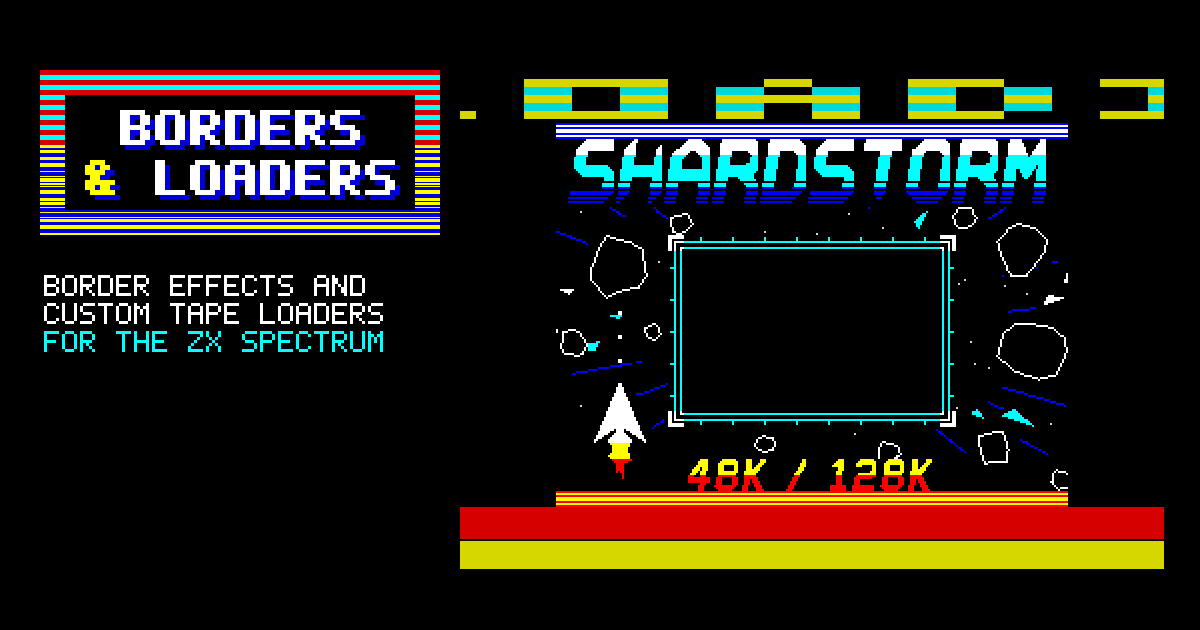
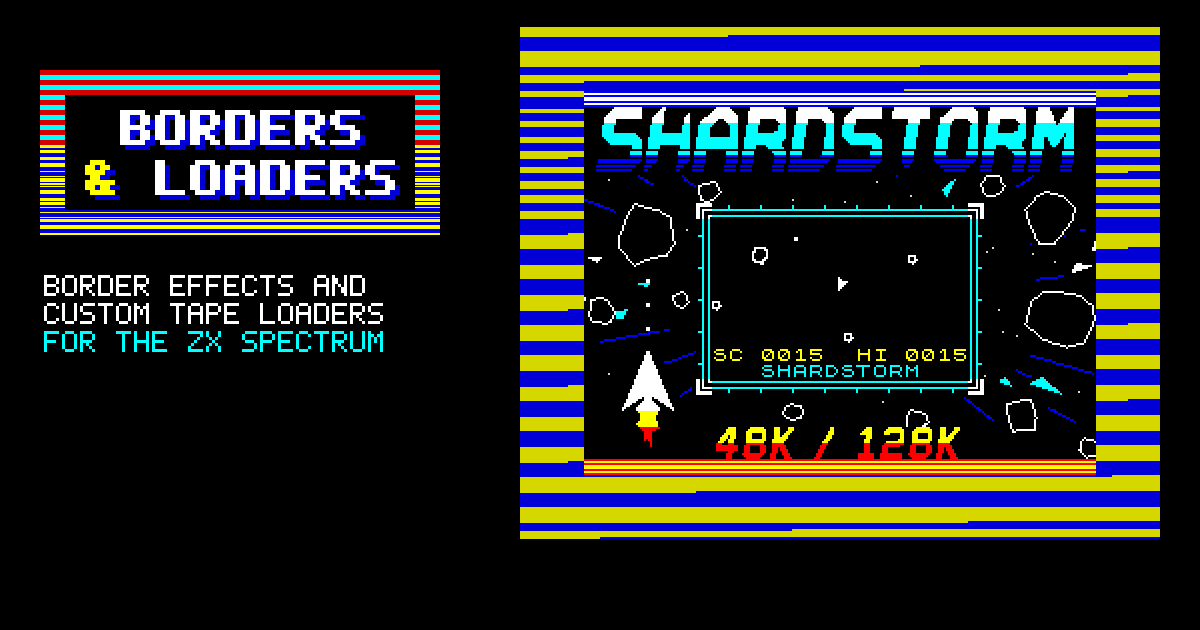
Site update

Changed region(s): [[0.37, 0.0302, 0.9867, 0.9048], [0.37, 0.181, 0.4008, 0.2111]]

diff --git a/demos/shardstorm-minigame/index.html b/demos/shardstorm-minigame/index.html
@@ -1,0 +1,120 @@
+<!doctype html>
+<html lang="en-GB">
+<head>
+<meta charset="utf-8">
+<meta name="viewport" content="width=device-width,initial-scale=1">
+<title>Play Shardstorm while it loads - Borders &amp; Loaders</title>
+<meta name="description" content="An ordinary-looking tape, loading stripes and all - but once the loading screen is in, a cut-down Shardstorm plays in the box in the middle while the rest of the game loads. Your best score carries over into the real game. 48K and 128K.">
+<meta property="og:title" content="Play Shardstorm while it loads - Borders &amp; Loaders">
+<meta property="og:description" content="An ordinary-looking tape, loading stripes and all - but once the loading screen is in, a cut-down Shardstorm plays in the box in the middle while the rest of the game loads. Your best score carries over into the real game. 48K and 128K.">
+<meta property="og:type" content="website">
+<meta property="og:url" content="https://mikeynma.github.io/borders-and-loaders/demos/shardstorm-minigame/">
+<meta property="og:image" content="https://mikeynma.github.io/borders-and-loaders/shots/shardstorm-minigame/playing.png">
+<meta property="og:image:alt" content="The Shardstorm loading screen with blue and yellow loading stripes in the border; in its central box a small ship, several outline shards, and SC 0015 HI 0015">
+<link rel="canonical" href="https://mikeynma.github.io/borders-and-loaders/demos/shardstorm-minigame/">
+<meta name="twitter:card" content="summary_large_image">
+<meta name="twitter:image" content="https://mikeynma.github.io/borders-and-loaders/shots/shardstorm-minigame/playing.png">
+<meta name="theme-color" content="#000000">
+<link rel="icon" href="../../favicon-32.png" type="image/png">
+<link rel="apple-touch-icon" href="../../apple-touch-icon.png">
+<link rel="preload" href="../../fonts/geist-400.woff2" as="font" type="font/woff2" crossorigin>
+<link rel="stylesheet" href="../../site.css">
+</head>
+<body>
+<div class="tape" aria-hidden="true"></div>
+<header class="top">
+  <div class="wrap">
+    <a class="brand" href="../../" aria-label="Borders and Loaders, the front page"><img src="../../icon.png" width="32" height="32" alt=""><span>Borders &amp; Loaders</span></a>
+    <nav aria-label="Sections"><a href="#how">How it works</a><a href="#screens">Screens</a><a href="#download">Download</a><a href="../../#demos">All demos</a></nav>
+  </div>
+</header>
+
+<main>
+<section class="hero wrap">
+  <div class="hero-text">
+    <p class="badges"><span class="badge m48K">48K</span><span class="badge m128K">128K</span><span class="date">12 November 2026</span></p>
+    <h1 class="title">Play Shardstorm while it loads</h1>
+    <p class="lead">An ordinary-looking tape, loading stripes and all - but once the loading screen is in, a cut-down Shardstorm plays in the box in the middle while the rest of the game loads. Your best score carries over into the real game. 48K and 128K.</p>
+    <p>Tape games of the 1980s sometimes gave you something to play while they loaded; this is Shardstorm's. The tape looks and sounds like any other - the ROM's blue and yellow stripes, no border tricks - but the black box in the middle of the loading screen is a playfield: O and P turn, Q thrusts, SPACE fires.</p>
+<p>Shards drift and wrap round the box; big ones split in two when shot, small ones go, and a new wave comes when the box is clear. A crash costs you your score, but your best is kept - and when the load is done and you press fire, Shardstorm starts with it as its high score.</p>
+    <div class="actions"><a class="btn" href="../../files/shardstorm-128k-game.tzx" download>Download the 128K .tzx <small>36 KB</small></a><a class="btn btn-ghost" href="../../files/shardstorm-128k-game.tap" download>Download the 128K .tap <small>36 KB</small></a><a class="btn btn-ghost" href="../../files/shardstorm-48k-game.tzx" download>Download the 48K .tzx <small>32 KB</small></a><a class="btn btn-ghost" href="../../files/shardstorm-48k-game.tap" download>Download the 48K .tap <small>32 KB</small></a></div>
+  </div>
+  <figure class="hero-shot">
+    <a class="shot" href="../../shots/shardstorm-minigame/playing.png" data-caption="Ten seconds into the game's load: the ship among the shards in the loading screen's box, the score below, the ROM's loading stripes all round."><img src="../../shots/shardstorm-minigame/playing.png" width="640" height="512" alt="The Shardstorm loading screen with blue and yellow loading stripes in the border; in its central box a small ship, several outline shards, and SC 0015 HI 0015"></a>
+    <figcaption>Ten seconds into the game's load: the ship among the shards in the loading screen's box, the score below, the ROM's loading stripes all round.</figcaption>
+  </figure>
+</section>
+
+<section id="how" class="wrap">
+  <p class="eyebrow">How it works</p>
+  <div class="tech">
+    <div class="tech-text">
+      <h2>A game between the edges</h2>
+      <p>Our loader times the tape's pulses itself. After every bit of every byte - seven times a byte - it hands a slice of time to the game: one short piece of game code, always exactly the same length, so the loader knows how long it was away and still reads the next bit right. A piece moves a shard, or reads the keys, or draws part of the ship. About 30 pieces make a frame, and the game runs at 25 frames a second of tape, steady through the whole load.</p>
+<p>Every piece of game code is measured in the build, in thousands of random game states - shards alive or not, wrapping, colliding, keys held or not - and has to take one length in all of them, or the build stops.</p>
+      <h2>Where it lives</h2>
+      <p>The game keeps running after the load until you press fire, so it lives where no part of Shardstorm ever loads: the same gaps on both machines. The part that only runs once at the start sits where the last part of the game later loads over it. Before Shardstorm starts, the loader clears its own memory and writes your best score where Shardstorm keeps its high score.</p>
+      <h2>An ordinary tape</h2>
+      <p>The game's parts are standard blocks at the ROM's own speed, so the plain <code>.tap</code> works in any emulator that plays tapes in real time. The break key is CAPS SHIFT and SPACE, the Spectrum's own BREAK, since SPACE fires.</p>
+      <h2>How it was checked</h2>
+      <p>Checked by <code>shardgame.js</code>, loading the tape through our emulator's tape deck with a scripted player at the keys: every bit read right; the ship turned all 16 ways, moved and fired; shards split and went, and the score always matched; nothing ever drawn outside the box; the game's picture matching its own records, byte for byte, hundreds of times over; LOADED and PRESS FIRE; then Shardstorm's menu with the right high score - on both machines.</p>
+    </div>
+    <aside class="card numbers">
+      <h3>The numbers</h3>
+      <dl><dt>Machines</dt><dd>48K; 128K, +2</dd><dt>Tape</dt><dd>a plain .tap at ROM speed: about 2 minutes of play, 3 min 32 s to the end (48K), 3 min 46 s (128K)</dd><dt>Game frames</dt><dd>25 a second of tape</dd><dt>CPU for the game</dt><dd>about a fifth, while loading</dd><dt>Bits read</dt><dd>every one, with the same margins as an ordinary load</dd></dl>
+    </aside>
+  </div>
+</section>
+
+<section id="screens" class="wrap">
+  <p class="eyebrow">Screens</p>
+  <h2>As our emulator draws it</h2>
+  <p class="sub">Full frames, border and all. Click a picture to see it bigger.</p>
+  <div class="gallery">
+    <a class="shot" href="../../shots/shardstorm-minigame/playing.png" data-caption="Ten seconds into the game's load: the ship among the shards in the loading screen's box, the score below, the ROM's loading stripes all round."><img src="../../shots/shardstorm-minigame/playing.png" width="640" height="512" loading="lazy" alt="The Shardstorm loading screen with blue and yellow loading stripes in the border; in its central box a small ship, several outline shards, and SC 0015 HI 0015"></a>
+    <a class="shot" href="../../shots/shardstorm-minigame/part1.png" data-caption="Part 1 loading, 60% in: a shard split, a score going up."><img src="../../shots/shardstorm-minigame/part1.png" width="640" height="512" loading="lazy" alt="The Shardstorm loading screen with loading stripes; in the box a ship, small shards and SC 0025 HI 0250"></a>
+    <a class="shot" href="../../shots/shardstorm-minigame/48k-last.png" data-caption="The 48K tape, the last part loading, the controls running along the text line."><img src="../../shots/shardstorm-minigame/48k-last.png" width="640" height="512" loading="lazy" alt="The Shardstorm loading screen with loading stripes; in the box a ship and SC 0420 HI 0420, SPACE FIRE"></a>
+    <a class="shot" href="../../shots/shardstorm-minigame/loaded.png" data-caption="Loaded: the stripes stop, the box says PRESS FIRE, and the game goes on until you do."><img src="../../shots/shardstorm-minigame/loaded.png" width="640" height="512" loading="lazy" alt="The Shardstorm loading screen with a black border; in the box a ship, SC 0510 HI 0510 and PRESS FIRE"></a>
+    <a class="shot" href="../../shots/shardstorm-minigame/menu.png" data-caption="Fire starts Shardstorm, with the mini-game's best as its high score: 0635."><img src="../../shots/shardstorm-minigame/menu.png" width="640" height="512" loading="lazy" alt="The Shardstorm menu showing HIGH SCORE 0635"></a>
+  </div>
+</section>
+
+<section id="download" class="wrap">
+  <div class="card download">
+    <div>
+      <p class="eyebrow">Download</p>
+      <h2>Load it yourself</h2>
+      <p>For the 48K and the 128K. Each machine has its own tape; its .tzx and .tap hold the same blocks.</p>
+      <p class="meta"><code>shardstorm-128k-game.tzx</code>, 36 KB, built 12 November 2026<br><code>shardstorm-128k-game.tap</code>, 36 KB, built 12 November 2026<br><code>shardstorm-48k-game.tzx</code>, 32 KB, built 12 November 2026<br><code>shardstorm-48k-game.tap</code>, 32 KB, built 12 November 2026</p>
+      <div class="actions"><a class="btn" href="../../files/shardstorm-128k-game.tzx" download>Download the 128K .tzx <small>36 KB</small></a><a class="btn btn-ghost" href="../../files/shardstorm-128k-game.tap" download>Download the 128K .tap <small>36 KB</small></a><a class="btn btn-ghost" href="../../files/shardstorm-48k-game.tzx" download>Download the 48K .tzx <small>32 KB</small></a><a class="btn btn-ghost" href="../../files/shardstorm-48k-game.tap" download>Download the 48K .tap <small>32 KB</small></a></div>
+    </div>
+    <ol class="steps">
+      <li><b>In an emulator</b> (ZX Spin, Retro Virtual Machine, Fuse and others): choose the machine the demo says - a 128K or +2 for the 128K ones - and open the <code>.tzx</code> or the <code>.tap</code>. They hold the same blocks; use whichever your emulator prefers. On a 128K, pick <b>Tape Loader</b>; on a 48K, type <code>LOAD ""</code>.</li>
+      <li><b>Switch off instant and fast loading.</b> The custom loaders read the tape signal themselves, edge by edge: an emulator that skips the tape skips the loader, and everything it does while it loads.</li>
+      <li><b>On a real Spectrum:</b> play the <code>.tzx</code> into the EAR socket from a TZX player. These are for the original machines' timing: the 48K, the 128K and the grey +2.</li>
+    </ol>
+  </div>
+</section>
+
+<nav class="wrap pager" aria-label="Other demos">
+  <a href="../shardstorm-pulse/">&larr; Tune, text and a VU meter while it loads</a>
+  <span></span>
+</nav>
+</main>
+
+<footer class="wrap foot">
+  <img src="../../icon.png" width="24" height="24" alt="">
+  <div>
+    <p>Borders &amp; Loaders is a set of experiments for the ZX Spectrum, written in Z80 assembly with our own assembler and emulator, and checked frame by frame before anything goes into a game. Made in the UK, by the maker of <a href="https://mikeynma.github.io/">games for the ZX Spectrum Next</a>.</p>
+    <p class="small">Shardstorm, the game on the loader demos' tapes, is our own rock shooter in progress. Everything here is our own code, fonts, tunes and pictures. Text in Geist, under the SIL Open Font License.</p>
+  </div>
+</footer>
+<dialog class="lightbox" aria-label="Screenshot">
+  <figure><img alt=""><figcaption></figcaption></figure>
+  <button class="lb-btn lb-prev" type="button" aria-label="Previous picture">&lsaquo;</button>
+  <button class="lb-btn lb-next" type="button" aria-label="Next picture">&rsaquo;</button>
+  <button class="lb-btn lb-close" type="button" autofocus aria-label="Close">&times;</button>
+</dialog>
+<script src="../../site.js"></script>
+</body>
+</html>

diff --git a/index.html b/index.html
@@ -37,12 +37,12 @@
     <p>Music, scrolling text and a VU meter in the border while a game loads; rainbow bars, checkerboards and horizons that run off the edge of the TV. All of it our own Z80, timed to the T-state against the beam.</p>
     <div class="actions">
       <a class="btn" href="#demos">See the demos</a>
-      <a class="btn btn-ghost" href="demos/shardstorm-pulse/">The newest: Tune, text and a VU meter while it loads</a>
+      <a class="btn btn-ghost" href="demos/shardstorm-minigame/">The newest: Play Shardstorm while it loads</a>
     </div>
   </div>
   <figure class="hero-shot">
-    <video src="videos/shardstorm-pulse.mp4" poster="shots/shardstorm-pulse/loading.png" width="828" height="576" muted loop playsinline controls preload="metadata" aria-label="Tune, text and a VU meter while it loads: Highlights of a whole load, recorded in an emulator, with the sound: turn it on for the tune. The ROM loads our loader, which takes over with the text, the meter and the music; the loading screen arrives; part 1 loads; then the game"></video>
-    <figcaption>Highlights of a whole load, recorded in an emulator, with the sound: turn it on for the tune. The ROM loads our loader, which takes over with the text, the meter and the music; the loading screen arrives; part 1 loads; then the game.</figcaption>
+    <a class="shot" href="shots/shardstorm-minigame/playing.png" data-caption="Ten seconds into the game's load: the ship among the shards in the loading screen's box, the score below, the ROM's loading stripes all round."><img src="shots/shardstorm-minigame/playing.png" width="640" height="512" alt="The Shardstorm loading screen with blue and yellow loading stripes in the border; in its central box a small ship, several outline shards, and SC 0015 HI 0015"></a>
+    <figcaption>Play Shardstorm while it loads. Ten seconds into the game's load: the ship among the shards in the loading screen's box, the score below, the ROM's loading stripes all round.</figcaption>
   </figure>
 </section>
 
@@ -52,7 +52,16 @@
   <p class="sub">Each is a tape to load in an emulator or on a real Spectrum, with a page on how it works. Newest first.</p>
   <div class="demos">
     <article class="demo card">
-      <div class="demo-media"><a class="shot" href="shots/shardstorm-pulse/loading.png" data-caption="Part 1 of the game loading under the finished loading screen: the message in the top border, the meter in the bottom - bass full, the lead a stripe, the drums quiet."><img src="shots/shardstorm-pulse/loading.png" width="704" height="576" loading="lazy" alt="The Shardstorm loading screen, big blocky green and magenta letters in the top border, a red and a yellow band across the bottom border, black sides"></a></div>
+      <div class="demo-media"><a class="shot" href="shots/shardstorm-minigame/playing.png" data-caption="Ten seconds into the game's load: the ship among the shards in the loading screen's box, the score below, the ROM's loading stripes all round."><img src="shots/shardstorm-minigame/playing.png" width="640" height="512" loading="lazy" alt="The Shardstorm loading screen with blue and yellow loading stripes in the border; in its central box a small ship, several outline shards, and SC 0015 HI 0015"></a></div>
+      <div class="demo-text">
+        <p class="badges"><span class="badge m48K">48K</span><span class="badge m128K">128K</span><span class="date">12 November 2026</span></p>
+        <h3><a href="demos/shardstorm-minigame/">Play Shardstorm while it loads</a></h3>
+        <p>An ordinary-looking tape, loading stripes and all - but once the loading screen is in, a cut-down Shardstorm plays in the box in the middle while the rest of the game loads. Your best score carries over into the real game. 48K and 128K.</p>
+        <p class="links"><a class="btn btn-small" href="demos/shardstorm-minigame/">How it works</a><a class="btn btn-small btn-ghost" href="files/shardstorm-128k-game.tzx" download>128K .tzx</a><a class="btn btn-small btn-ghost" href="files/shardstorm-128k-game.tap" download>128K .tap</a><a class="btn btn-small btn-ghost" href="files/shardstorm-48k-game.tzx" download>48K .tzx</a><a class="btn btn-small btn-ghost" href="files/shardstorm-48k-game.tap" download>48K .tap</a></p>
+      </div>
+    </article>
+    <article class="demo card">
+      <div class="demo-media"><video src="videos/shardstorm-pulse.mp4" poster="shots/shardstorm-pulse/loading.png" width="828" height="576" muted loop playsinline controls preload="metadata" aria-label="Tune, text and a VU meter while it loads: Highlights of a whole load, recorded in an emulator, with the sound: turn it on for the tune. The ROM loads our loader, which takes over with the text, the meter and the music; the loading screen arrives; part 1 loads; then the game"></video></div>
       <div class="demo-text">
         <p class="badges"><span class="badge m48K">48K</span><span class="badge m128K">128K</span><span class="date">12 November 2026</span></p>
         <h3><a href="demos/shardstorm-pulse/">Tune, text and a VU meter while it loads</a></h3>
@@ -111,6 +120,7 @@
   <h2>What's new</h2>
   <div class="log card">
     <ul>
+      <li><time datetime="2026-11-12">12 November 2026</time> <b>Play Shardstorm while it loads:</b> <a href="demos/shardstorm-minigame/">a cut-down Shardstorm in the loading screen's box</a>, on 48K and 128K tapes, and your best score becomes the game's high score.</li>
       <li><time datetime="2026-11-12">12 November 2026</time> <b>Now on the 48K:</b> <a href="demos/shardstorm-pulse/">tune, text and a VU meter while it loads</a> has a 48K tape - the text all the way, the meter keeping a silent beat, the game in 2 minutes 14 seconds.</li>
       <li><time datetime="2026-11-12">12 November 2026</time> <b>Shorter tapes all round:</b> <a href="demos/shardstorm-music/">the tune while it loads</a> now reaches the game in 2 minutes 7 seconds (was 3:16), and <a href="demos/shardstorm-scroll/">text in the border</a> in 2:22 on the 128K (was 3:52): their loaders and the game load packed, and unpack when the last block is in.</li>
       <li><time datetime="2026-11-12">12 November 2026</time> <b>On the 48K:</b> <a href="demos/shardstorm-scroll/">text in the border while the screen loads</a> has a 48K tape now: the scroller, then the game by the ROM.</li>

diff --git a/demos/shardstorm-pulse/index.html b/demos/shardstorm-pulse/index.html
@@ -114,7 +114,7 @@
 
 <nav class="wrap pager" aria-label="Other demos">
   <a href="../shardstorm-scroll/">&larr; Text in the border while the screen loads</a>
-  <span></span>
+  <a href="../shardstorm-minigame/">Play Shardstorm while it loads &rarr;</a>
 </nav>
 </main>
 
